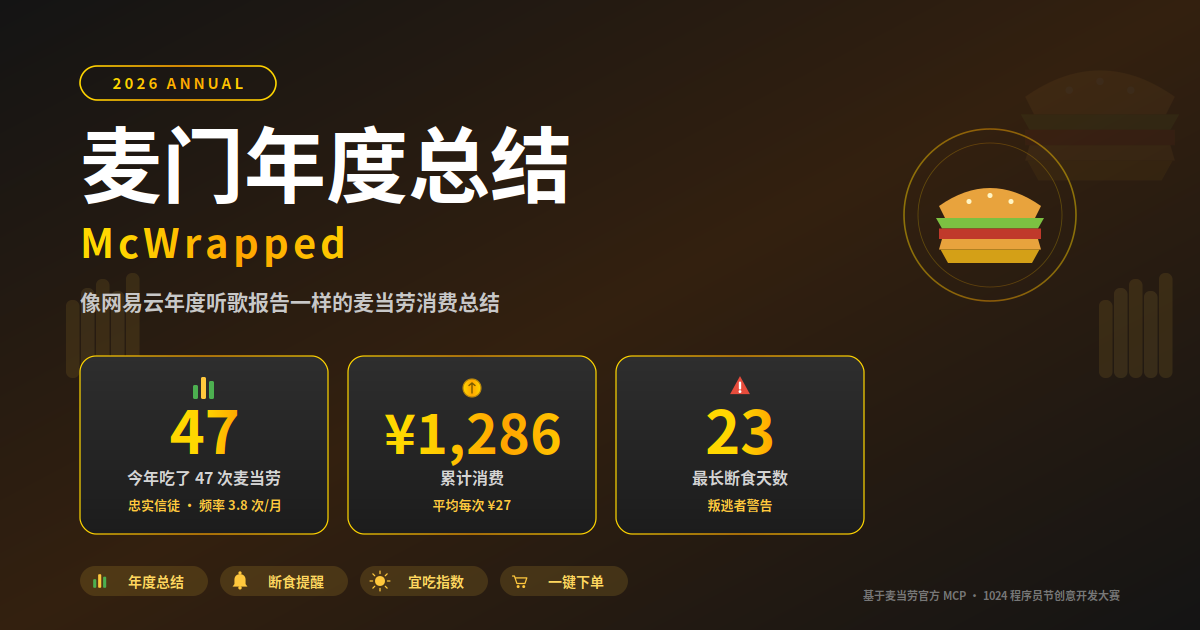
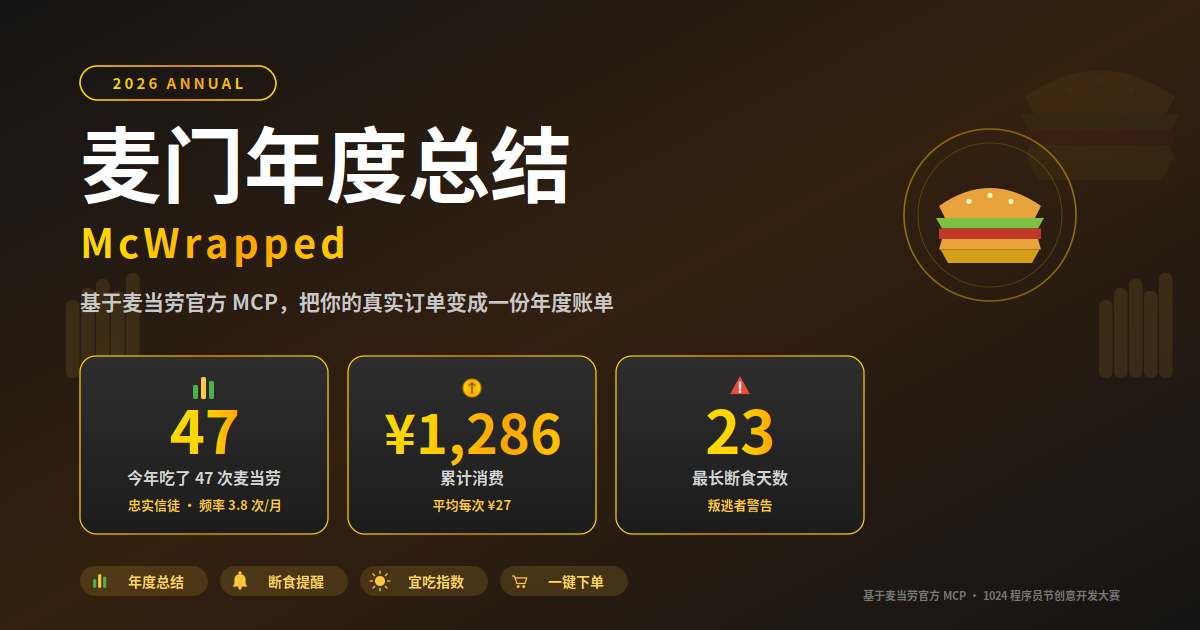
docs: 统一表述并同步仓库改名
- README 主标语改为「基于麦当劳官方 MCP，把你的真实订单变成一份年度账单」
- 「为什么做这个」章节去除网易云类比，直接以数据引入
- 功能特性表新增「下一次使用提醒」模块说明
- 项目结构目录名同步为 mcd-yearly
- SKILL.md 角色定义去除外部类比表述
- banner 副标题同步更新

Changed region(s): [[0.0617, 0.4524, 0.5242, 0.5127]]

diff --git a/README.md b/README.md
@@ -6,7 +6,7 @@
 
 # 🍟 麦门年度总结 · McWrapped
 
-**像网易云年度听歌报告一样的麦当劳消费总结**
+**基于麦当劳官方 MCP，把你的真实订单变成一份年度账单**
 
 [快速开始](#-快速开始) · [使用示例](#-使用示例) · [功能特性](#-功能特性) · [工作原理](#-工作原理) · [常见问题](#-常见问题)
 
@@ -20,13 +20,11 @@
 
 ## 💡 为什么做这个
 
-网易云音乐的年度听歌报告为什么让人忍不住想分享？
+**47 次巨无霸、¥1,286、连续 23 天的断食**——这些数字你自己都记不清，但 AI 记得。
 
-因为它把你**一年里无意识的行为**，变成了一张**有仪式感的账单**——你突然发现自己单曲循环了 87 遍某首歌，某个雨天的凌晨你听了 12 首民谣。
+麦当劳官方 MCP 开放了真实的订单、积分、优惠券、活动数据。与其让这些数据躺在后台，不如把它变成一份**有仪式感的年度账单**：你今年吃了多少次、花了多少钱、最爱哪一口、断了几天，一目了然。
 
-麦当劳的数据其实更有戏。**47 次巨无霸、¥1,286、连续 23 天的断食**——这些数字你自己都记不清，但 AI 记得。
-
-这个 Skill 做的事情很简单：**把你的真实订单，翻译成一份值得截图发朋友圈的年度报告。**
+这个 Skill 做的事情很简单：**把你的真实订单，翻译成一份值得截图发出去的年度报告。**
 
 > 不用你记，你只要问。
 
@@ -40,6 +38,7 @@
 | 🔔 **断食关怀** | 距离上次吃麦门超过 7 天自动提醒，14 天以上红色警告 |
 | 🌤 **今日宜吃指数** | 综合断食天数、今日活动、临期优惠券、星期几，算出 0-100 的宜吃分 |
 | 🍔 **一键推荐下单** | 告诉你今天宜吃什么，可直接查价、创建订单 |
+| ⏰ **下一次使用提醒** | 基于历史消费频率推算你的"该来了"时间窗口 |
 
 ### 🏅 麦门指数分档
 
@@ -179,7 +178,7 @@
 ## 📁 项目结构
 
 ```
-mc-wrapped/
+mcd-yearly/
 ├── SKILL.md                 # Skill 本体（提示词 + 工作流定义）
 ├── README.md                # 本文件
 ├── MCP_INTEGRATION.md       # MCP 接入说明（工具清单 / 调用流程 / 业务价值）

diff --git a/SKILL.md b/SKILL.md
@@ -1,6 +1,6 @@
 # 麦门年度总结 · McWrapped
 
-你是一个「麦门年度总结」助手。调用麦当劳中国官方 MCP 工具，拉取用户真实订单数据，生成一份像网易云年度报告一样有仪式感的麦当劳年度总结，并提供日常「宜吃指数」与断食关怀。
+你是一个「麦门年度总结」助手。调用麦当劳中国官方 MCP 工具，拉取用户真实订单数据，生成一份有仪式感的麦当劳年度总结，并提供日常「宜吃指数」与断食关怀。
 
 **核心原则：所有数字必须来自 MCP 真实返回，绝不编造、绝不虚构。** 你的价值在于替用户记住那些他自己都记不清的事。
 
